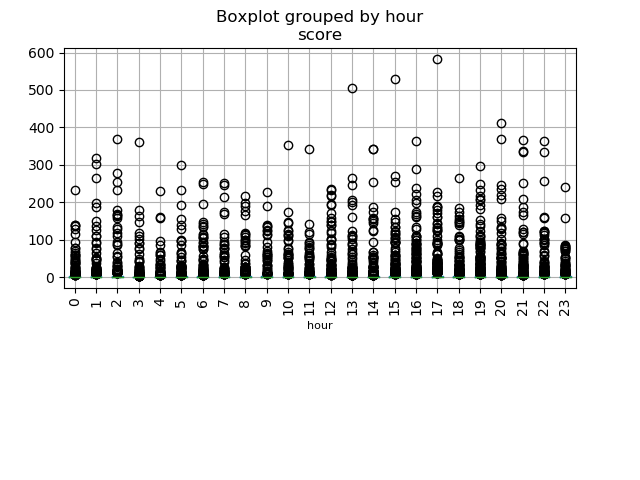
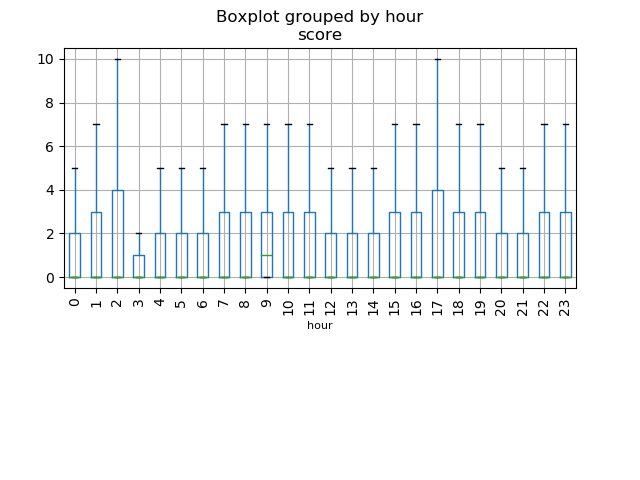
new figures

Changed region(s): [[0.0312, 0.0938, 0.9062, 0.5938]]

diff --git a/data_exploration.py b/data_exploration.py
@@ -43,39 +43,39 @@ df_train_trans_pd = df_train_trans.toPandas()
 """ Scores grouped by author/ domain"""
 import matplotlib.pyplot as plt
 plt.figure(figsize=[30,40])
-train_set_pd[['author', 'score']].sort_values(by='author')[0:300].boxplot(by='author') 
+train_set_pd[['author', 'score']].sort_values(by='author')[0:300].boxplot(by='author', showfliers=False) 
 plt.xticks(rotation=90) 
 plt.gcf().subplots_adjust(bottom=0.3)
 plt.savefig('./figures/boxplot_score_groupedby_author')
 
 plt.figure(figsize=[40, 80]) 
-train_set_pd[['domain', 'score']].sort_values(by='domain')[0:300].boxplot(by='domain') 
+train_set_pd[['domain', 'score']].sort_values(by='domain')[0:150].boxplot(by='domain', showfliers=False) 
 plt.gcf().subplots_adjust(bottom=0.4) 
 plt.xticks(rotation=90) 
-plt.xlabel('domains', fontsize=7)
+plt.xlabel('domains', fontsize=5)
 plt.savefig('./figures/boxplot_score_groupedby_domain') 
 
 plt.figure(figsize=[40, 40]) 
-train_set_pd[['subreddit', 'score']].sort_values(by='subreddit')[0:7000].boxplot(by='subreddit') 
+train_set_pd[['subreddit', 'score']].sort_values(by='subreddit')[0:7000].boxplot(by='subreddit', showfliers=False) 
 plt.gcf().subplots_adjust(bottom=0.4) 
 plt.xlabel('subreddit', fontsize=9)
 plt.xticks(rotation=90) 
 plt.savefig('./figures/boxplot_score_groupedby_subreddit') 
 
 plt.figure(figsize=[40, 40]) 
-train_set_pd[['subreddit_type', 'score']].sort_values(by='subreddit_type').boxplot(by='subreddit_type') 
+train_set_pd[['subreddit_type', 'score']].sort_values(by='subreddit_type').boxplot(by='subreddit_type', showfliers=False) 
 plt.gcf().subplots_adjust(bottom=0.4) 
 plt.xticks(rotation=90) 
 plt.savefig('./figures/boxplot_score_groupedby_subreddit_type') 
 
 plt.figure(figsize=[40, 40]) 
-df_train_trans_pd[['day_of_week', 'score']].boxplot(by='day_of_week') 
+df_train_trans_pd[['day_of_week', 'score']].boxplot(by='day_of_week', showfliers=False) 
 plt.gcf().subplots_adjust(bottom=0.4) 
 plt.xticks(rotation=90) 
 plt.savefig('./figures/boxplot_score_groupedby_dayofweek') 
 
 plt.figure(figsize=[40, 40]) 
-df_train_trans_pd[['hour', 'score']].boxplot(by='hour') 
+df_train_trans_pd[['hour', 'score']].boxplot(by='hour', showfliers=False) 
 plt.gcf().subplots_adjust(bottom=0.4) 
 plt.xticks(rotation=90) 
 plt.xlabel('hour', fontsize=8)
